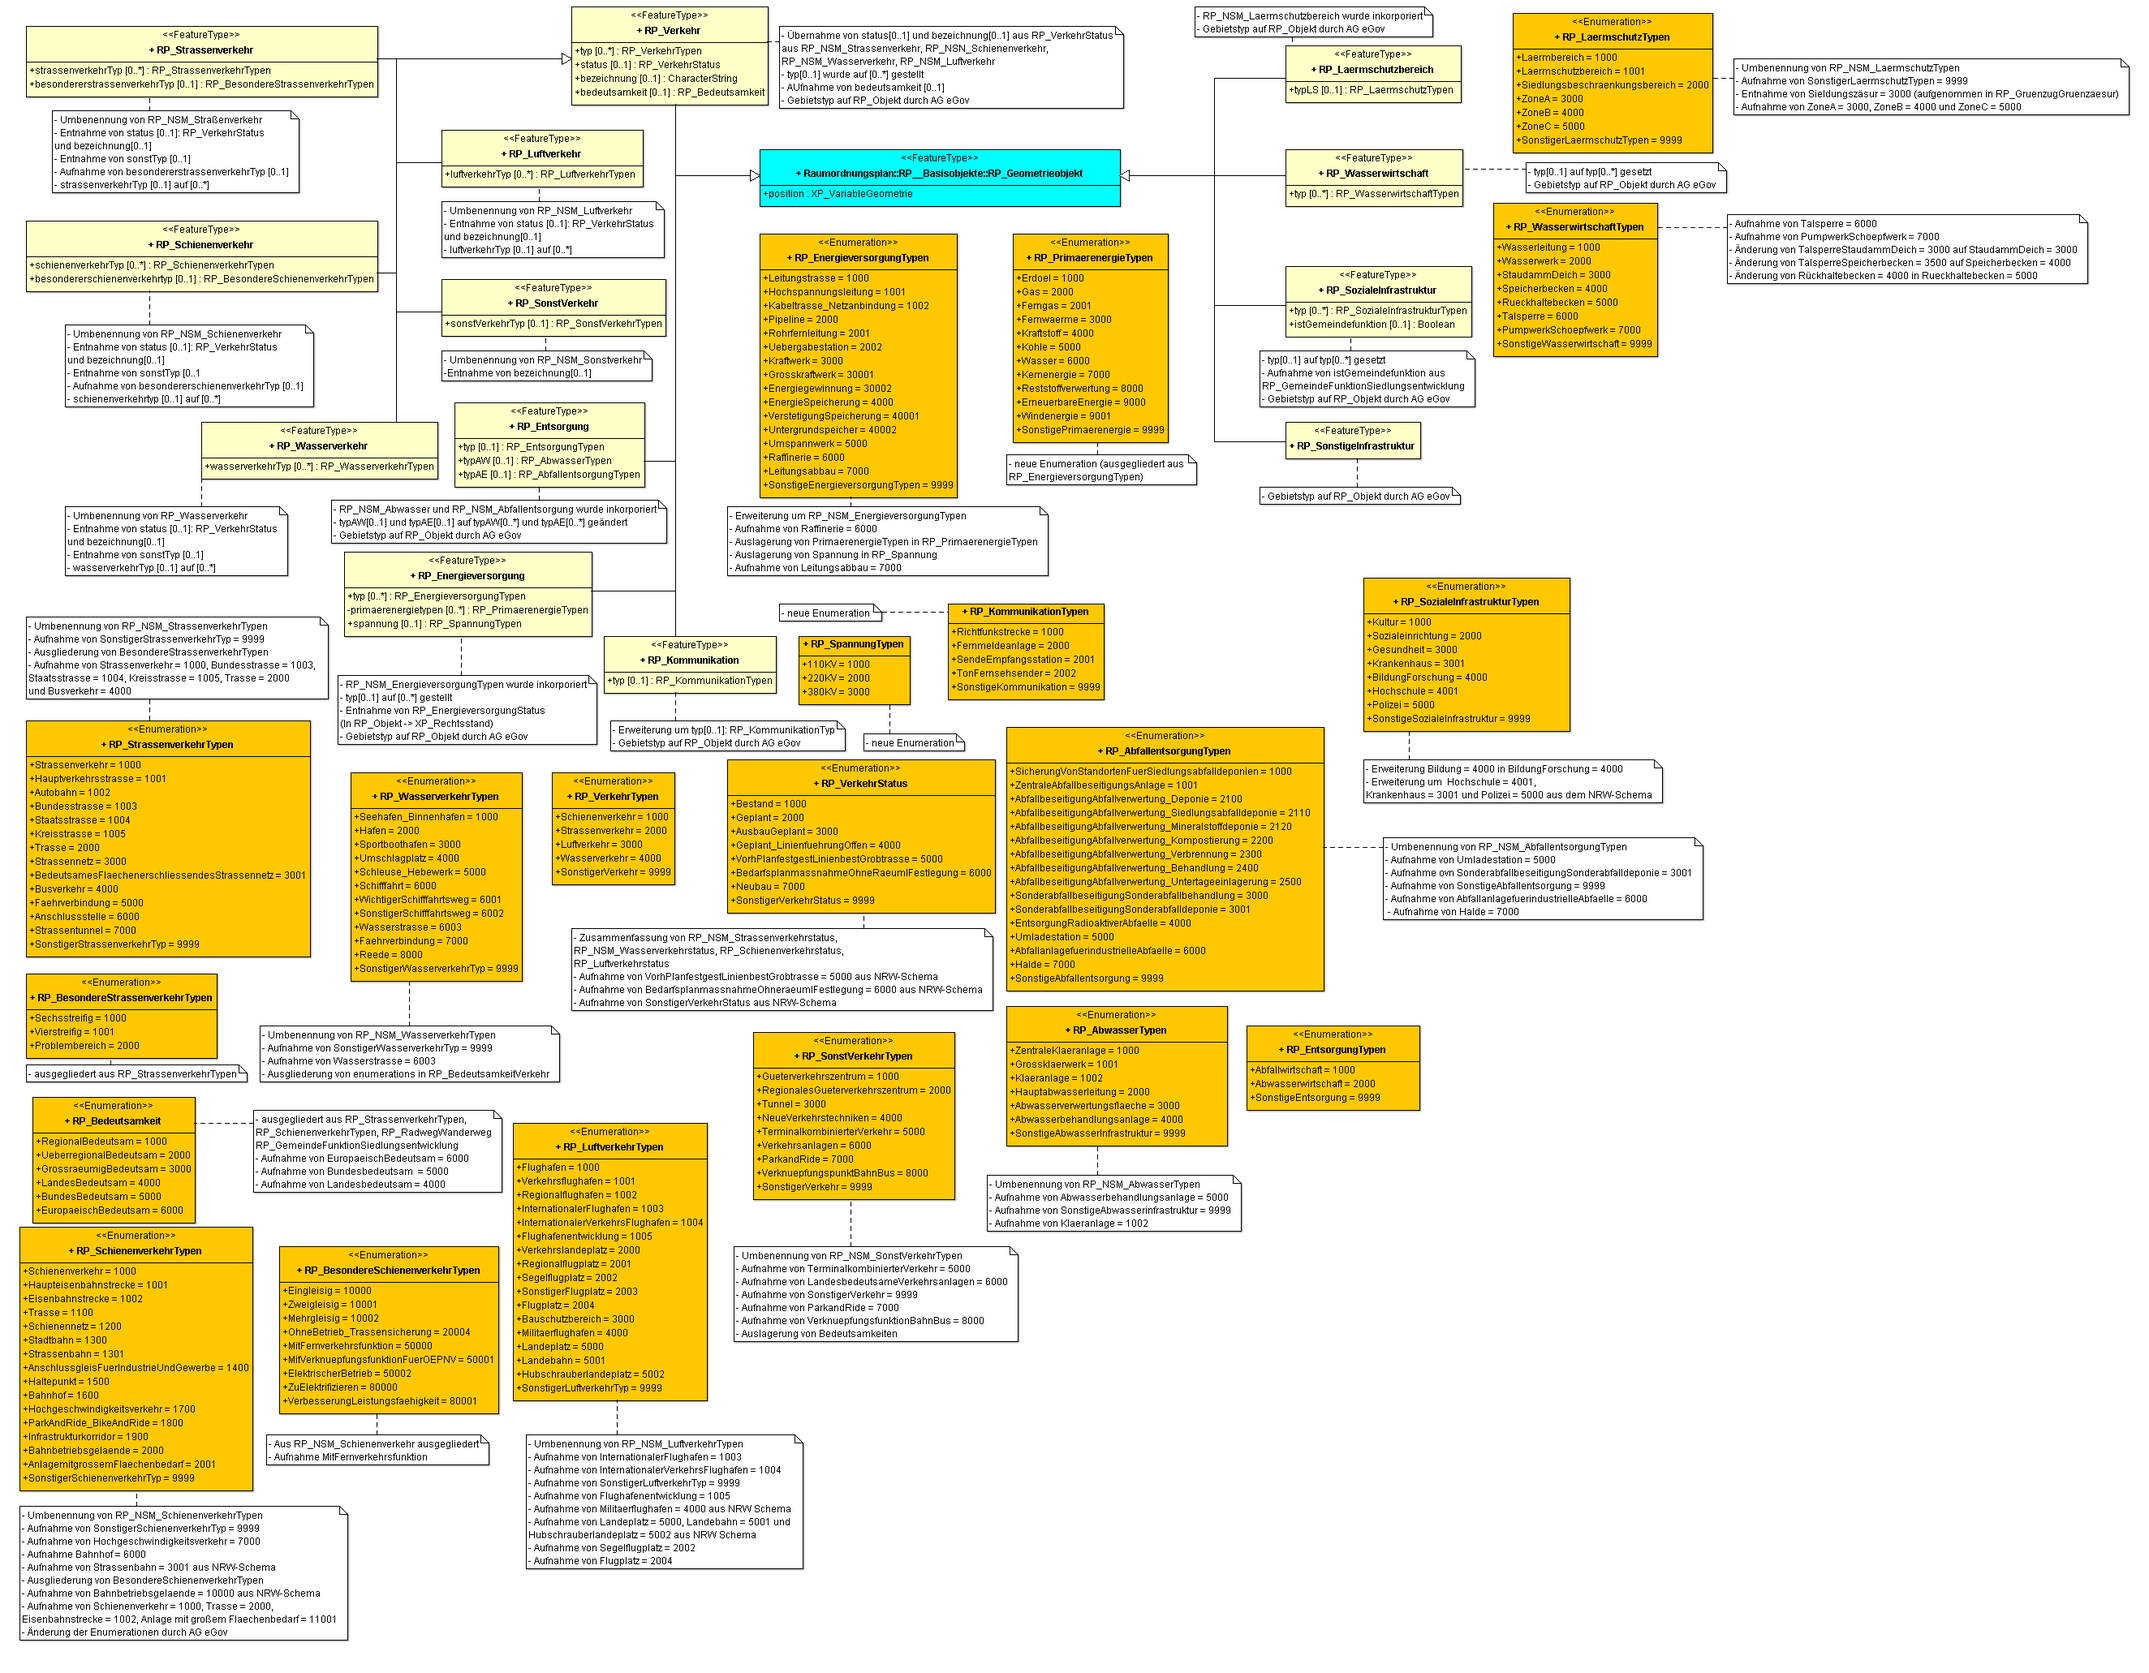
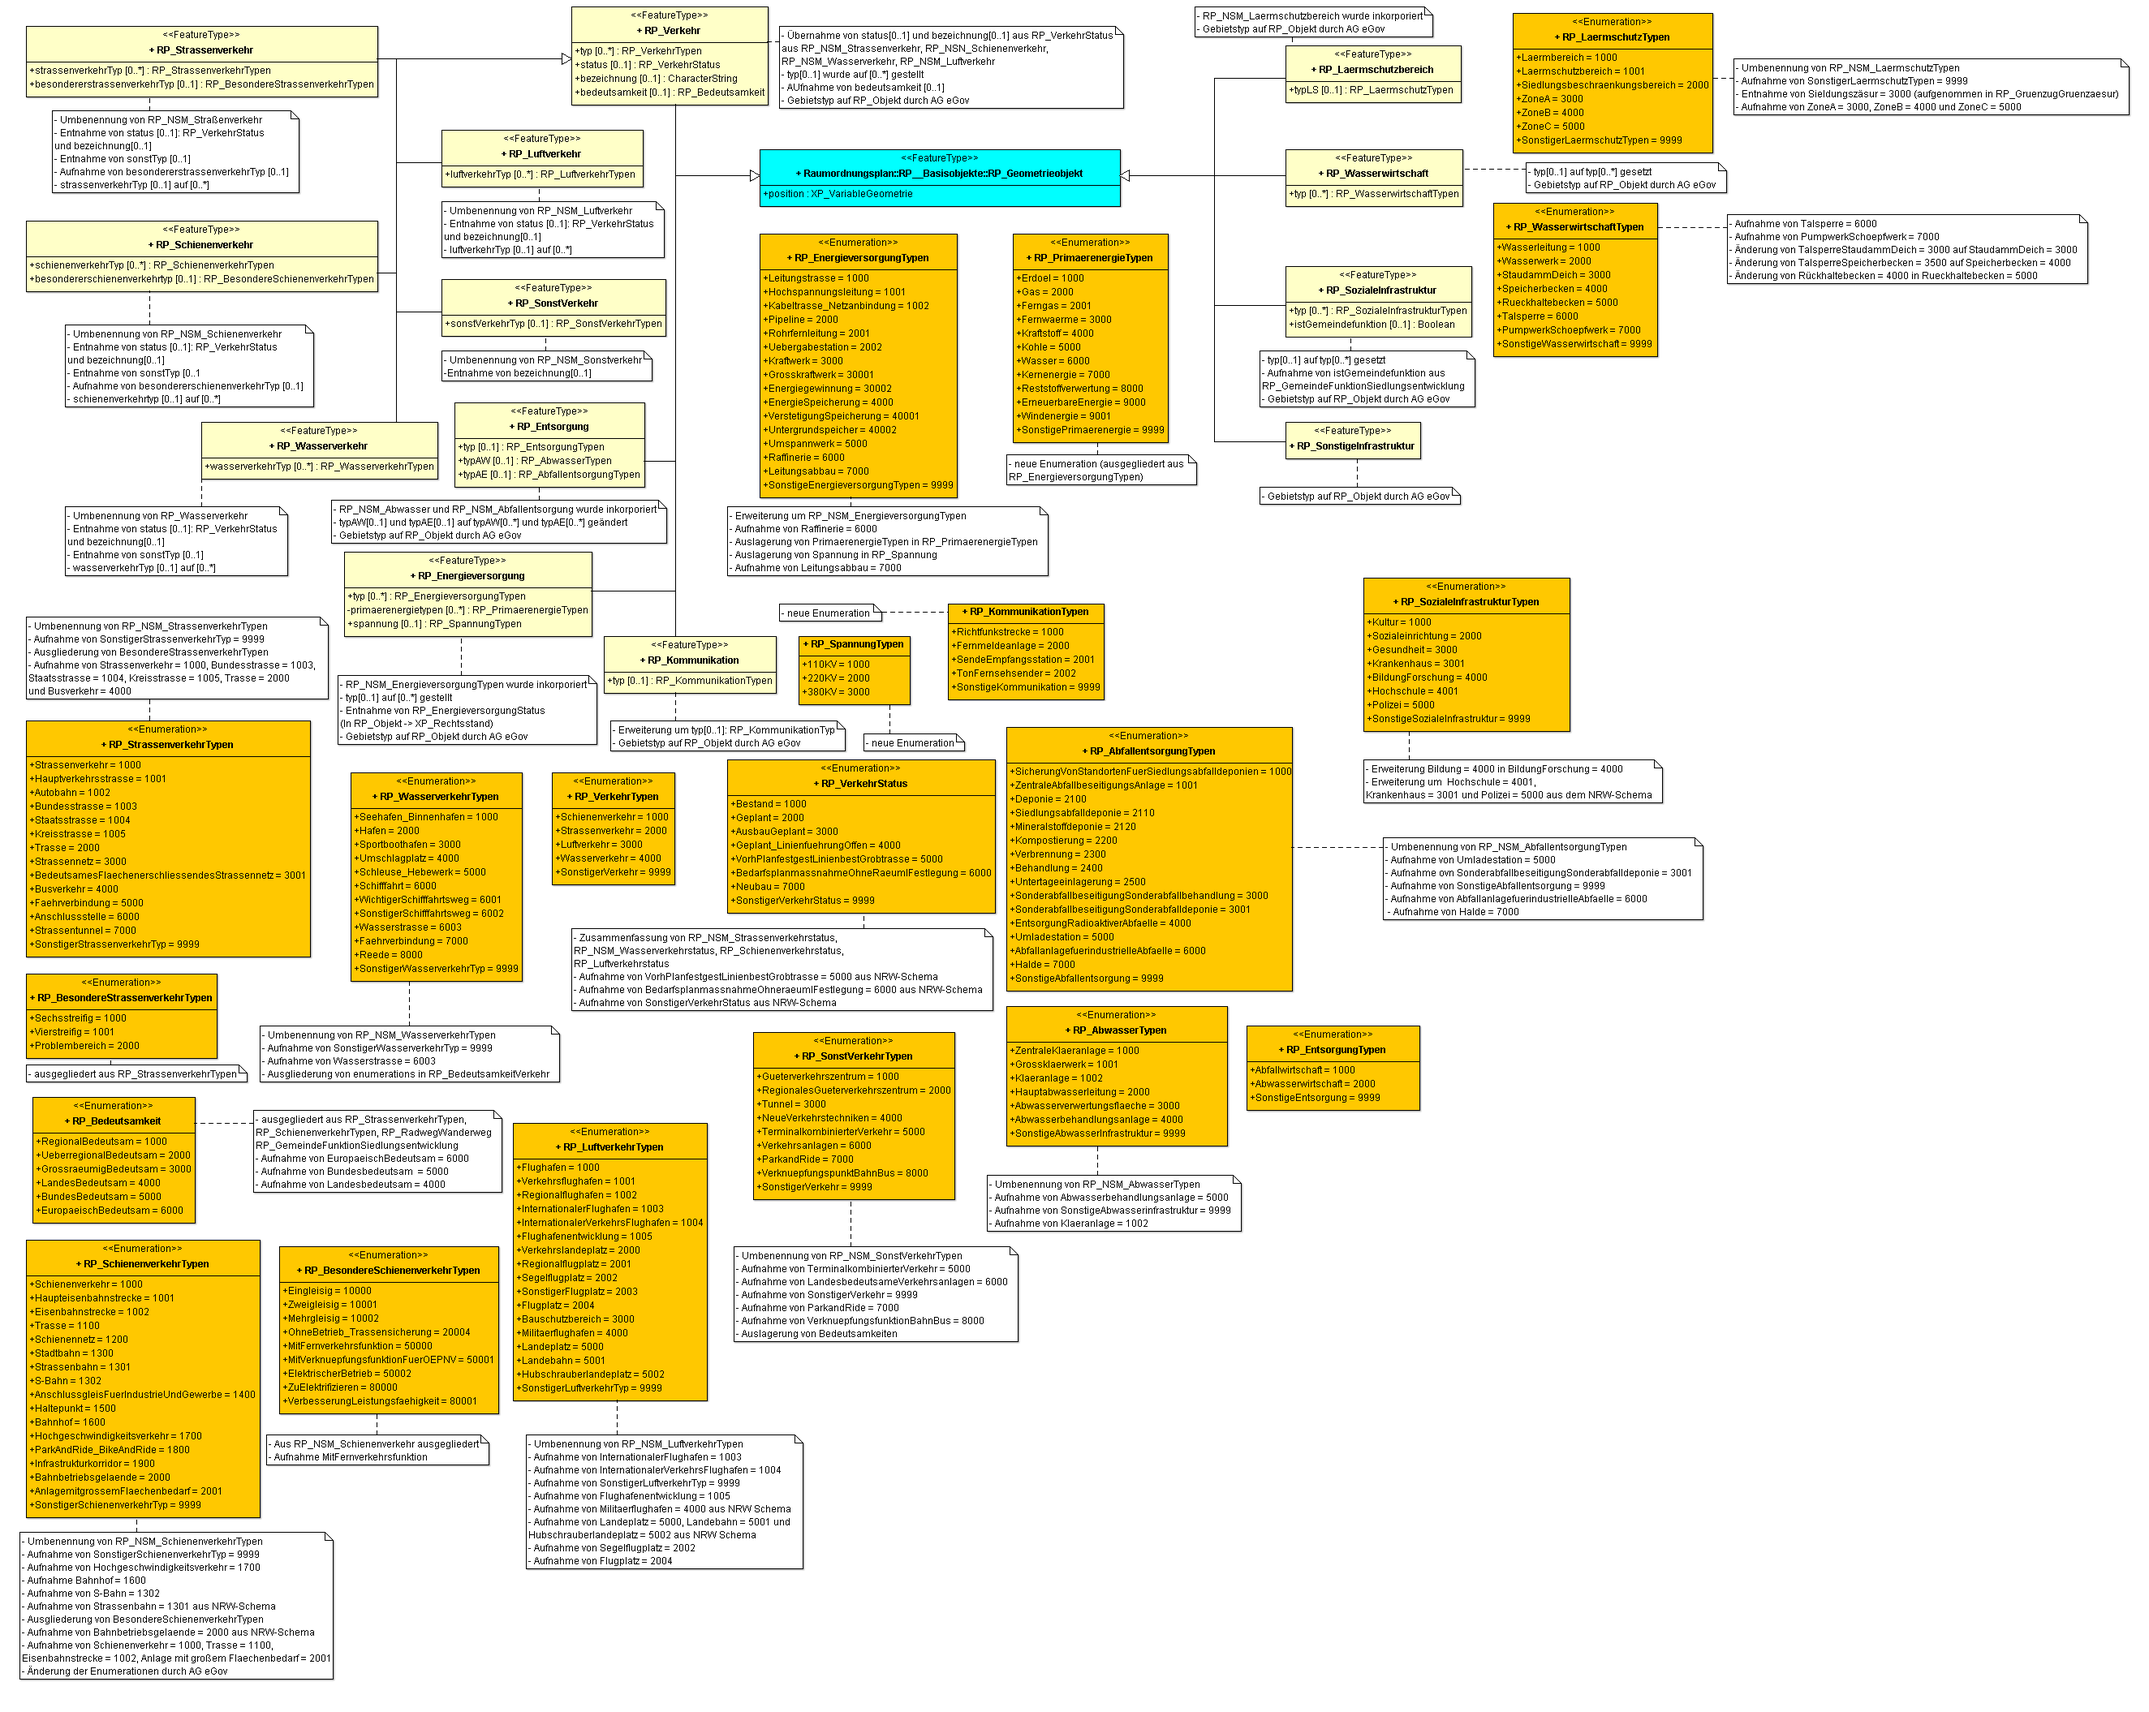
kleine Modelländerung für RP_SchienenverkehrTypen und RP_AbfallentsorgungTypen

Changed region(s): [[0.0, 0.0, 0.9909, 0.9932], [0.8051, 0.1242, 0.96, 0.1862], [0.0929, 0.4966, 0.1239, 0.5276]]

diff --git a/index.php b/index.php
@@ -1251,7 +1251,7 @@ function show_uml() {
       <area shape="rect" coords="1249,288,1440,546" href="index.php?go=show_simple_types#xplan:RP_PrimaerenergieTypen" alt="RP_PrimaerenergieTypen" title="RP_PrimaerenergieTypen: Typ der Primärenergie">
       <area shape="rect" coords="984,784,1122,870" href="index.php?go=show_simple_types#xplan:RP_SpannungTypen" alt="RP_SpannungTypen" title="RP_SpannungTypen: Typ der Spannung">
       <area shape="rect" coords="1170,745,1359,862" href="index.php?go=show_simple_types#xplan:RP_KommunikationTyp" alt="RP_KommunikationTyp" title="KommunikationTyp: Typ der Kommunikationsinfrastruktur">
-      <area shape="rect" coords="1238,897,1630,1219" href="index.php?go=show_simple_types#xplan:RP_AbfallentsorgungTypen" alt="RP_AbfallentsorgungTypen" title="RP_AbfallentsorgungTypen: Typ der Abfallentsorgung">
+      <area shape="rect" coords="1240,897,1596,1222" href="index.php?go=show_simple_types#xplan:RP_AbfallentsorgungTypen" alt="RP_AbfallentsorgungTypen" title="RP_AbfallentsorgungTypen: Typ der Abfallentsorgung">
       <area shape="rect" coords="1241,1241,1513,1412" href="index.php?go=show_simple_types#xplan:RP_AbwasserTypen" alt="RP_AbwasserTypen" title="RP_AbwasserTypen: Typ der Abwasserinfrastruktur">
       <area shape="rect" coords="1536,1265,1748,1367" href="index.php?go=show_simple_types#xplan:RP_EntsorgungTypen" alt="RP_EntsorgungTypen" title="RP_EntsorgungTypen: Klassifikation von Entsorgungs-Arten.">    
       <area shape="rect" coords="895,936,1227,1126" href="index.php?go=show_simple_types#xplan:VerkehrStatus" alt="RP_VerkehrStatus" title="RP_VerkehrStatus: Klassifikation des Verkehrsstatus">
@@ -1261,7 +1261,7 @@ function show_uml() {
       <area shape="rect" coords="33,889,383,1179" href="index.php?go=show_simple_types#xplan:RP_StrassenverkehrTypen" alt="RP_StrassenverkehrTypen" title="RP_StrassenverkehrTypen: Klassifikation des Straßenverkehrs">
       <area shape="rect" coords="33,1200,267,1303" href="index.php?go=show_simple_types#xplan:RP_BesondereStrassenverkehrTypen" alt="RP_BesondereStrassenverkehrTypen" title="RP_BesondereStrassenverkehrTypen: Klassifikation des besonderen Straßenverkehrs">
       <area shape="rect" coords="40,1352,240,1508" href="index.php?go=show_simple_types#xplan:RP_Bedeutsamkeit" alt="RP_Bedeutsamkeit" title="RP_Bedeutsamkeit: Bedeutsamkeit des FeatureTypes">
-      <area shape="rect" coords="23,1512,311,1837" href="index.php?go=show_simple_types#xplan:RP_SchienenverkehrTypen" alt="RP_SchienenverkehrTypen" title="RP_SchienenverkehrTypen: Klassifikation des Schienenverkehrs">
+      <area shape="rect" coords="33,1529,320,1870" href="index.php?go=show_simple_types#xplan:RP_SchienenverkehrTypen" alt="RP_SchienenverkehrTypen" title="RP_SchienenverkehrTypen: Klassifikation des Schienenverkehrs">
       <area shape="rect" coords="343,1536,614,1742" href="index.php?go=show_simple_types#xplan:RP_BesondereSchienenverkehrTypen" alt="RP_BesondereSchienenverkehrTypen" title="RP_BesondereSchienenverkehrTypen: Klassifikation von besonderen Schienenverkehrtypen">
       <area shape="rect" coords="632,1384,871,1727" href="index.php?go=show_simple_types#xplan:RP_LuftverkehrTypen" alt="RP_LuftverkehrTypen" title="RP_LuftverkehrTypen: Klassifikation des Luftverkehrs">
     </map>    
@@ -1373,7 +1373,7 @@ function show_uml() {
     </a>
     <p>Version 2015-07-21 (Arbeitsversion)</p>
     <div id="infrastrukturuml" style="display:none;">
-    <p><img src="images/2015_07_21-Modell/RP_Infrastruktur.png" alt="RP_Infrastruktur" style="width:2648x;height:2062px;" usemap="#RP_Infrastruktur"></p>
+    <p><img src="images/2015_07_21-Modell/RP_Infrastruktur.png" alt="RP_Infrastruktur" style="width:2648x;height:2110px;" usemap="#RP_Infrastruktur"></p>
     </div>
 
     <a href="javascript:ReverseDisplay('siedlungsstrukturuml')" class=hlink>
